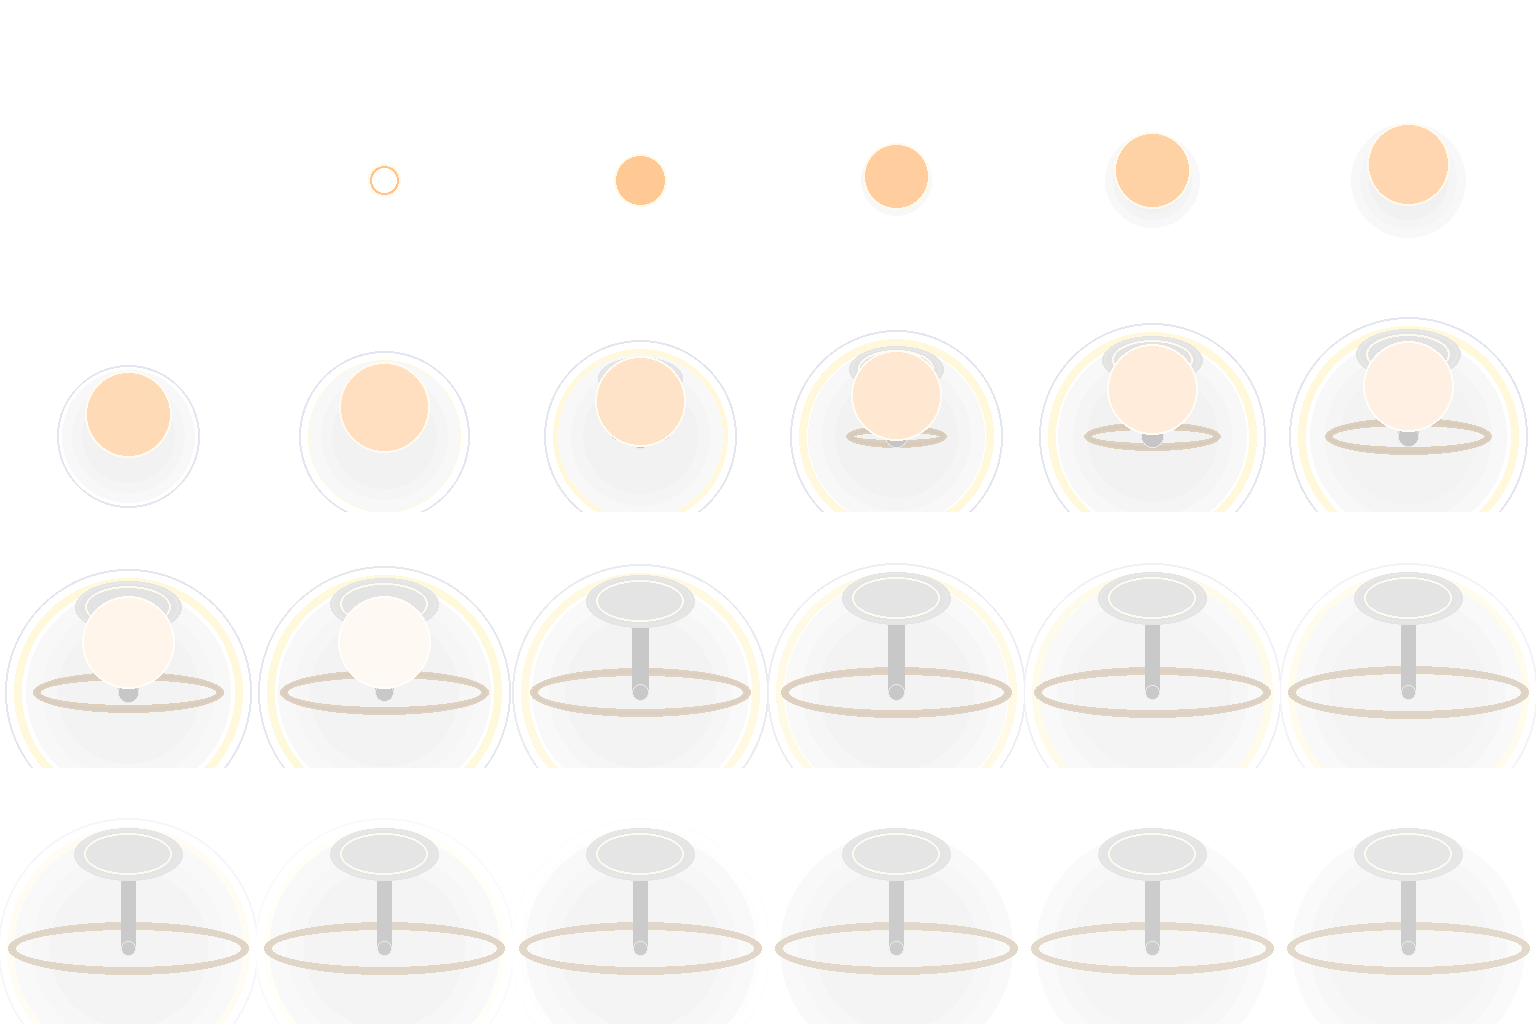
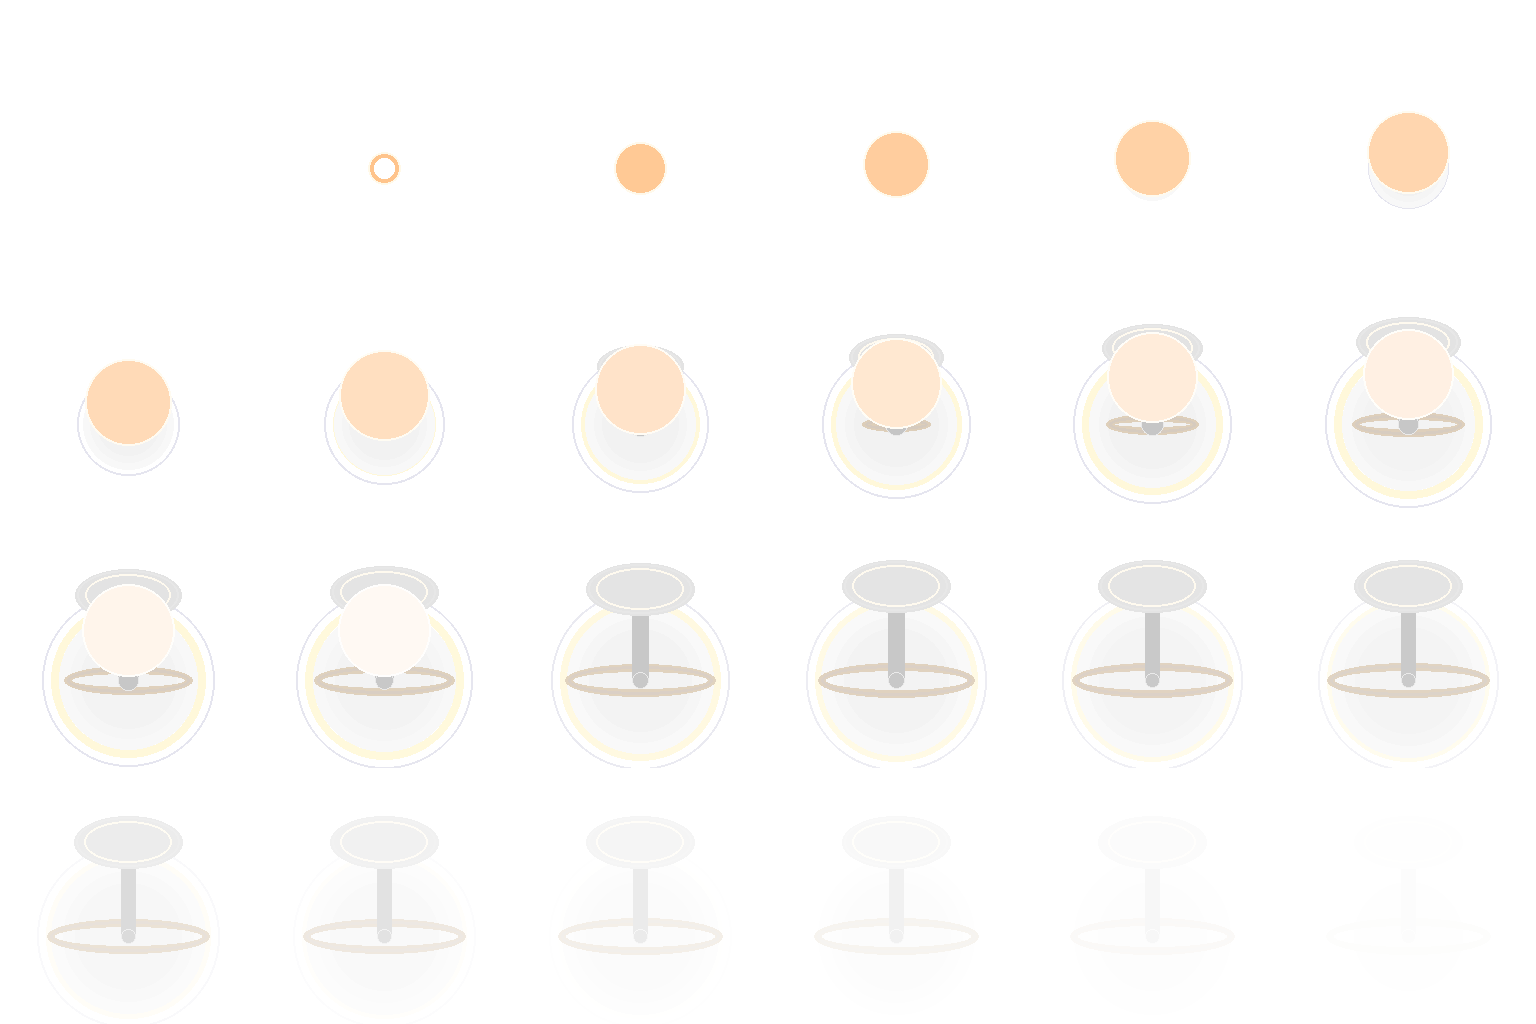
Update nuke animation sprite sheet #471

diff --git a/source/core/src/main/com/csse3200/game/services/ItemEffectsService.java b/source/core/src/main/com/csse3200/game/services/ItemEffectsService.java
@@ -217,14 +217,14 @@ public class ItemEffectsService {
       case "nuke":
         // Offset effect position so effect is centred around tile spawned at (effect is scaled up
         // to cover 5x5 tiles)
-        position.x = position.x - 2 * tileSize;
-        position.y = position.y - tileSize;
+        position.x = position.x - 3 * tileSize;
+        position.y = position.y - 2 * tileSize;
         spawnEffect(
             ServiceLocator.getResourceService()
                 .getAsset("images/effects/nuke.atlas", TextureAtlas.class),
             "nuke",
             (new Vector2[] {position, bottomCorner}),
-            tileSize * 5,
+            tileSize * 7,
             (new float[] {
               0.1f, 1.5f
             }), // frame duration and total effect time (nuke is an instantaneous effect)
